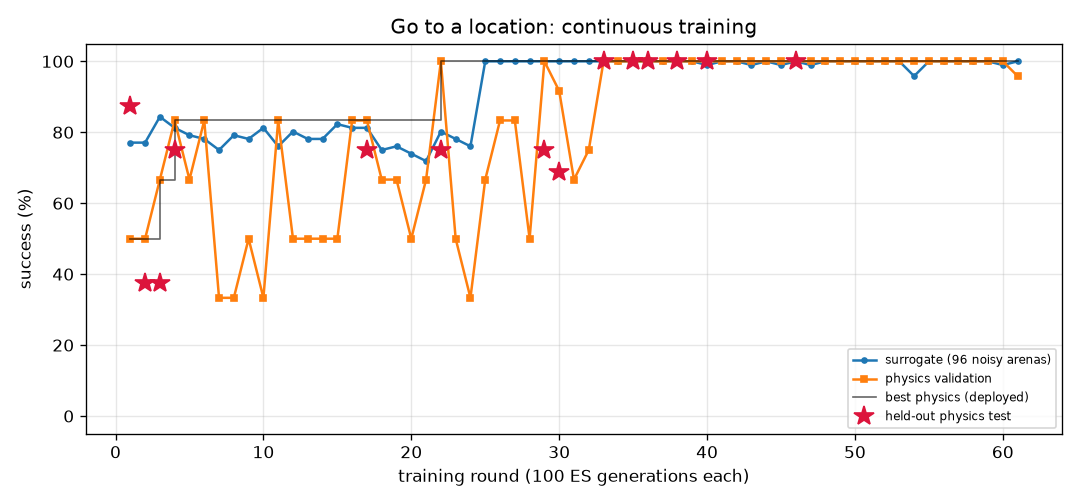
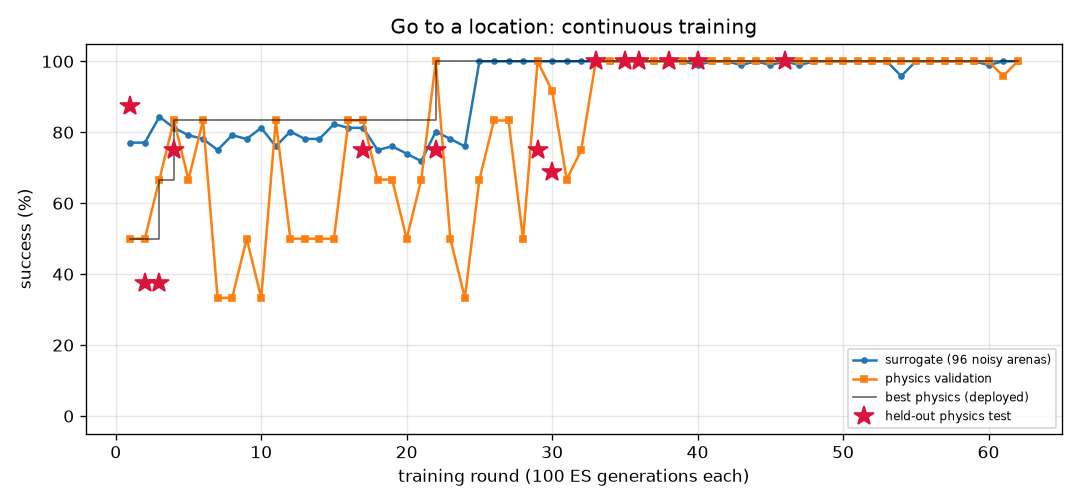
FlyLab: continuous training progress
- walk_forward: optimal, physics val 100% of 24, round 63
- turn: optimal, physics val 100% of 24, round 234
- goto: optimal, physics val 100% of 24, round 62
- odor_seek: optimal, physics val 100% of 24, round 77
- odor_avoid: optimal, physics val 100% of 24, round 338
- light_seek: optimal, physics val 100% of 24, round 242
- light_avoid: optimal, physics val 100% of 24, round 133

diff --git a/projects/09_flylab/training/goto/REPORT.md b/projects/09_flylab/training/goto/REPORT.md
@@ -1,14 +1,14 @@
 # Go to a location (`goto`) — training report
 
-*Auto-generated by `train_brains.py`, last updated 2026-10-07T22:53:17.*
+*Auto-generated by `train_brains.py`, last updated 2026-10-08T10:13:12.*
 
 ![curve](curve.png)
 
 | | |
 |---|---|
-| rounds | 61 |
-| ES generations | 6100 |
-| physics runs | 1254 |
+| rounds | 62 |
+| ES generations | 6200 |
+| physics runs | 1278 |
 | status | **optimal** |
 | best brain | round 46: physics validation **100%** on 24 arenas, surrogate 100% |
 | held-out physics test | **100%** on 32 unseen arenas (95% CI 89%-100%) (errors: [0.51, 0.56, 0.44, 0.63, 0.46, 0.45, 0.47, 0.6, 0.49, 0.48, 0.49, 0.47, 0.44, 0.55, 0.6, 0.51, 0.48, 0.52, 0.45, 0.45, 0.52, 0.49, 0.58, 0.47, 0.45, 0.46, 0.55, 0.46, 0.44, 0.58, 0.63, 0.61]) |
@@ -17,7 +17,6 @@ Physics error per arena: mm from target at the end (< 1.5 and standing still = s
 
 | round | level | gens | sigma | surrogate | physics val | val errors | test | note |
 |---:|---:|---:|---:|---:|---:|---|---:|---|
-| 22 | 1 | 2200 | 0.035 | 80% | 100% | [1.88, 1.99, 1.66, 1.06, 1.45, 1.74] | 75% | new best |
 | 23 | 1 | 2300 | 0.035 | 78% | 50% | [1.93, 1.79, 2.09, 2.1, 1.97, 2.62] |  |  |
 | 24 | 1 | 2400 | 0.036 | 76% | 33% | [2.34, 1.38, 2.77, 2.19, 2.2, 1.84] |  | reseed: fresh weights |
 | 25 | 1 | 2500 | 0.079 | 100% | 67% | [0.03, 2.4, 1.41, 1.1, 0.5, 2.6] |  |  |
@@ -57,3 +56,4 @@ Physics error per arena: mm from target at the end (< 1.5 and standing still = s
 | 59 | 3 | 5900 | 0.024 | 100% | 100% | [0.77, 0.78, 0.62, 0.63, 0.78, 0.63, 0.76, 0.68, 0.67, 0.64, 0.79, 0.63, 0.68, 0.66, 0.72, 0.76, 0.76, 0.62, 0.62, 0.66, 0.75, 0.62, 0.69, 0.63] |  |  |
 | 60 | 3 | 6000 | 0.024 | 99% | 100% | [0.75, 0.75, 0.56, 0.56, 0.77, 0.57, 0.75, 0.63, 0.63, 0.58, 0.7, 0.57, 0.67, 0.58, 0.61, 0.68, 0.77, 0.61, 0.57, 0.62, 0.68, 0.57, 0.68, 0.57] |  |  |
 | 61 | 3 | 6100 | 0.025 | 100% | 96% | [0.57, 0.49, 0.38, 0.38, 0.44, 0.35, 0.56, 0.49, 0.36, 0.39, 0.56, 0.38, 0.41, 0.37, 0.43, 0.53, 0.46, 0.44, 0.39, 0.41, 0.52, 0.39, 0.4, 0.36] |  |  |
+| 62 | 3 | 6200 | 0.024 | 100% | 100% | [0.47, 0.48, 0.34, 0.32, 0.41, 0.33, 0.47, 0.45, 0.33, 0.34, 0.49, 0.32, 0.39, 0.35, 0.39, 0.48, 0.43, 0.37, 0.35, 0.37, 0.48, 0.35, 0.38, 0.33] |  | restart from best |

diff --git a/projects/09_flylab/training/TRAINING.md b/projects/09_flylab/training/TRAINING.md
@@ -1,6 +1,6 @@
 # FlyLab brains — continuous training log
 
-*Auto-generated by `train_brains.py`, last updated 2026-10-08T10:00:45.*
+*Auto-generated by `train_brains.py`, last updated 2026-10-08T10:13:12.*
 
 Every skill has its own brain and its own training process: surrogate ES rounds, physics validation in MuJoCo, keep-the-best selection, and a held-out physics test that is never used for selection. See each skill's report for its full round-by-round history. Mastery is progressive: passing a level (100% physics validation, >=95% surrogate) doubles the validation and test arena sets; a brain is **optimal** once it holds up at level 3 (>=95% of 24 validation arenas) AND scores >=90% on the 32 held-out test arenas. Test columns show 95% Wilson confidence intervals.
 
@@ -8,7 +8,7 @@ Every skill has its own brain and its own training process: surrogate ES rounds,
 |---|---:|---:|---:|---:|---:|---:|---|
 | [Walk forward](walk_forward/REPORT.md) | 63 | 6300 | 1462 | 100% | 100% of 24 | 100% of 32 (CI 89-100%) | **optimal** |
 | [Turn in place](turn/REPORT.md) | 234 | 23400 | 5862 | 100% | 100% of 24 | 97% of 32 (CI 84-99%) | **optimal** |
-| [Go to a location](goto/REPORT.md) | 61 | 6100 | 1254 | 100% | 100% of 24 | 100% of 32 (CI 89-100%) | **optimal** |
+| [Go to a location](goto/REPORT.md) | 62 | 6200 | 1278 | 100% | 100% of 24 | 100% of 32 (CI 89-100%) | **optimal** |
 | [Find food by smell](odor_seek/REPORT.md) | 77 | 7700 | 1118 | 100% | 100% of 24 | 100% of 32 (CI 89-100%) | **optimal** |
 | [Escape a bad smell](odor_avoid/REPORT.md) | 338 | 33800 | 5322 | 98% | 100% of 24 | 100% of 32 (CI 89-100%) | **optimal** |
 | [Walk toward light](light_seek/REPORT.md) | 242 | 24200 | 2560 | 100% | 100% of 24 | 100% of 32 (CI 89-100%) | **optimal** |
